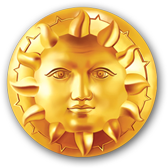
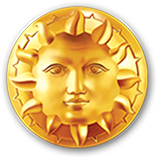
24.01.16 #18:40

diff --git a/second.html b/second.html
@@ -38,7 +38,7 @@
             <polygon points="300 300, 184.97 577.71, 22.29 415.03" stroke="#fff225" stroke-width="1" fill="url(#img6)"/>
             <polygon points="300 300, 22.29 415.03, 22.29 184.97" stroke="#fff225" stroke-width="1" fill="url(#img7)"/>
             <polygon points="300 300, 22.29 184.97, 184.97 22.29" stroke="#fff225" stroke-width="1" fill="url(#img8)"/>
-            <circle cx="300" cy="300" r="85" fill="url(#face)"/>
+            <circle cx="300" cy="300" r="80" fill="url(#face)"/>
             <defs>
               <pattern id="img1" patternUnits="userSpaceOnUse" width="100%" height="100%">
                 <image xlink:href="" />
@@ -65,7 +65,7 @@
                 <image xlink:href="" />
               </pattern>
               <pattern id="face" patternUnits="userSpaceOnUse" width="100%" height="100%">
-                <image xlink:href="img/sun.png" x="217.5" y="217.5"/>
+                <image xlink:href="img/sun.png" x="220" y="220"/>
               </pattern>
             </defs>
           </svg>
